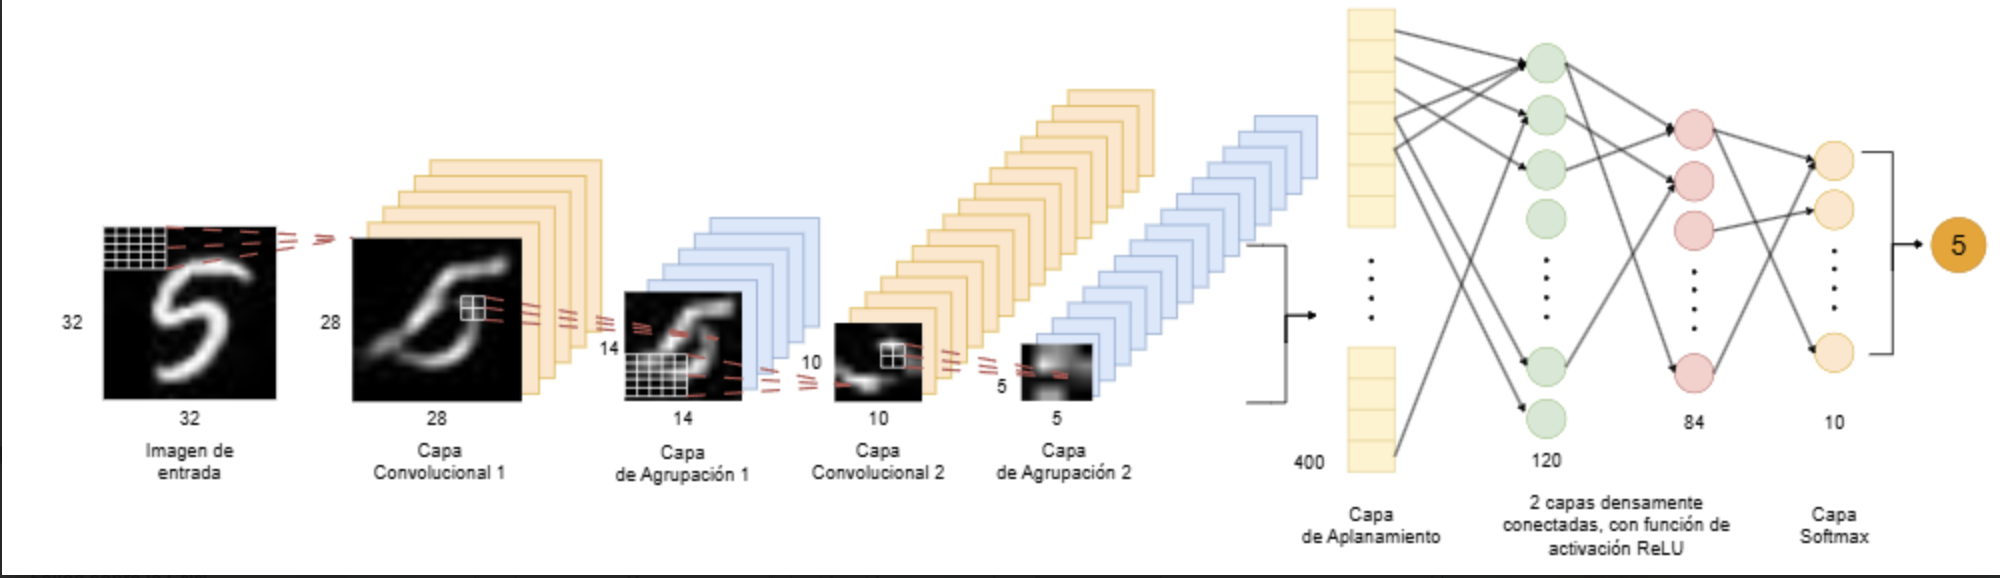
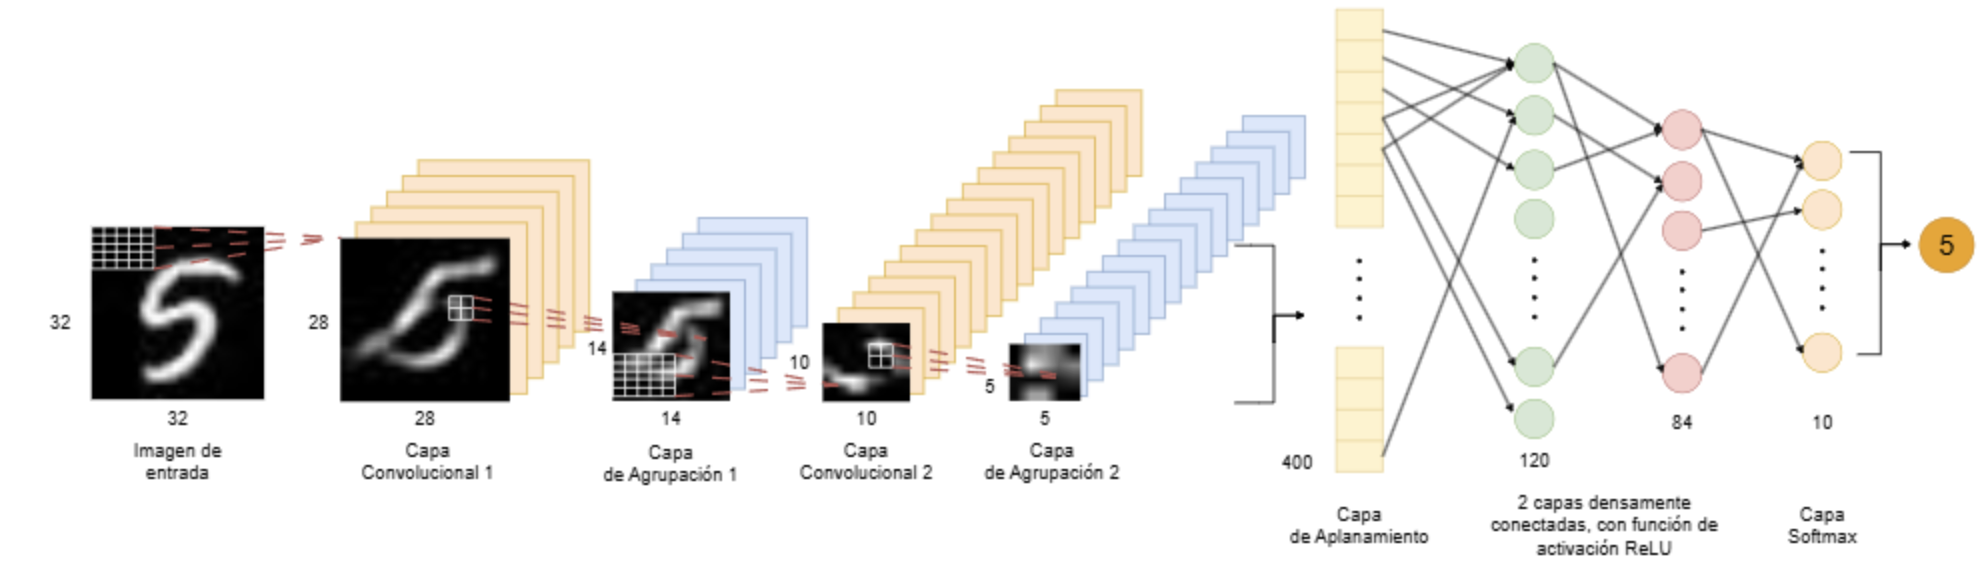
add image LeNet-5 to fault-injector and VHDL-tools

diff --git a/src/pages/VHDLTools.css b/src/pages/VHDLTools.css
@@ -15,6 +15,90 @@
   padding: 2rem 0;
 }
 
+.header-content {
+  display: flex;
+  align-items: center;
+  justify-content: space-between;
+  gap: 3rem;
+  max-width: 1200px;
+  margin: 0 auto;
+}
+
+.header-text {
+  flex: 1;
+  text-align: left;
+}
+
+.header-image {
+  flex: 0 0 auto;
+  display: flex;
+  flex-direction: column;
+  align-items: center;
+  gap: 0.5rem;
+}
+
+.lenet-architecture-image {
+  max-width: 400px;
+  height: auto;
+  border-radius: 12px;
+  box-shadow: 0 8px 32px rgba(0, 0, 0, 0.15);
+  background: white;
+  padding: 1rem;
+  border: 2px solid rgba(255, 255, 255, 0.3);
+}
+
+.image-caption {
+  font-size: 0.9rem;
+  color: white;
+  font-weight: 500;
+  margin: 0;
+  text-shadow: 0 1px 2px rgba(0, 0, 0, 0.3);
+}
+
+.architecture-info {
+  margin-top: 1.5rem;
+  padding: 1rem;
+  background: rgba(255, 255, 255, 0.15);
+  border-radius: 12px;
+  border: 1px solid rgba(255, 255, 255, 0.2);
+}
+
+.architecture-badge {
+  display: inline-block;
+  background: linear-gradient(135deg, #48bb78, #38a169);
+  color: white;
+  padding: 0.5rem 1rem;
+  border-radius: 20px;
+  font-size: 0.9rem;
+  font-weight: 600;
+  margin-bottom: 0.5rem;
+}
+
+.architecture-description {
+  font-size: 1rem;
+  color: white;
+  margin: 0.5rem 0 0 0;
+  line-height: 1.5;
+  text-shadow: 0 1px 2px rgba(0, 0, 0, 0.3);
+}
+
+/* Responsive design for header */
+@media (max-width: 768px) {
+  .header-content {
+    flex-direction: column;
+    text-align: center;
+    gap: 2rem;
+  }
+  
+  .header-text {
+    text-align: center;
+  }
+  
+  .lenet-architecture-image {
+    max-width: 300px;
+  }
+}
+
 .page-title {
   display: flex;
   align-items: center;

diff --git a/src/pages/VHDLTools.jsx b/src/pages/VHDLTools.jsx
@@ -21,13 +21,31 @@ const VHDLTools = () => {
       
       <div className="vhdl-tools-container">
         <div className="page-header">
-          <h1 className="page-title">
-            <span className="title-icon">🔧</span>
-            VHDL Tools
-          </h1>
-          <p className="page-subtitle">
-            Conjunto de herramientas para la conversión y extracción de datos de redes neuronales a formato VHDL
-          </p>
+          <div className="header-content">
+            <div className="header-text">
+              <h1 className="page-title">
+                <span className="title-icon">🔧</span>
+                VHDL Tools
+              </h1>
+              <p className="page-subtitle">
+                Conjunto de herramientas para la conversión y extracción de datos de redes neuronales a formato VHDL
+              </p>
+              <div className="architecture-info">
+                <span className="architecture-badge">🎯 Optimizado para LeNet-5</span>
+                <p className="architecture-description">
+                  Estas herramientas están específicamente diseñadas para trabajar con la arquitectura LeNet-5
+                </p>
+              </div>
+            </div>
+            <div className="header-image">
+              <img 
+                src="/LeNet-5.png" 
+                alt="Arquitectura LeNet-5" 
+                className="lenet-architecture-image"
+              />
+              <p className="image-caption">Arquitectura LeNet-5</p>
+            </div>
+          </div>
         </div>
         
         <div className="tools-content">

diff --git a/src/pages/FaultInjector.jsx b/src/pages/FaultInjector.jsx
@@ -444,13 +444,31 @@ const FaultInjector = () => {
       
       <div className="fault-injector-container">
         <div className="page-header">
-          <h1 className="page-title">
-            <span className="title-icon">⚡</span>
-            Fault Injector
-          </h1>
-          <p className="page-subtitle">
-            Herramienta para inyección de fallos en redes neuronales convolucionales
-          </p>
+          <div className="header-content">
+            <div className="header-text">
+              <h1 className="page-title">
+                <span className="title-icon">⚡</span>
+                Fault Injector
+              </h1>
+              <p className="page-subtitle">
+                Herramienta para inyección de fallos en redes neuronales convolucionales
+              </p>
+              <div className="architecture-info">
+                <span className="architecture-badge">🎯 Optimizado para LeNet-5</span>
+                <p className="architecture-description">
+                  Esta herramienta está específicamente diseñada y optimizada para trabajar con la arquitectura LeNet-5
+                </p>
+              </div>
+            </div>
+            <div className="header-image">
+              <img 
+                src="/LeNet-5.png" 
+                alt="Arquitectura LeNet-5" 
+                className="lenet-architecture-image"
+              />
+              <p className="image-caption">Arquitectura LeNet-5</p>
+            </div>
+          </div>
         </div>
         
         <div className="fault-injector-content">

diff --git a/src/pages/FaultInjector.css b/src/pages/FaultInjector.css
@@ -15,6 +15,88 @@
   padding: 2rem 0;
 }
 
+.header-content {
+  display: flex;
+  align-items: center;
+  justify-content: space-between;
+  gap: 3rem;
+  max-width: 1200px;
+  margin: 0 auto;
+}
+
+.header-text {
+  flex: 1;
+  text-align: left;
+}
+
+.header-image {
+  flex: 0 0 auto;
+  display: flex;
+  flex-direction: column;
+  align-items: center;
+  gap: 0.5rem;
+}
+
+.lenet-architecture-image {
+  max-width: 400px;
+  height: auto;
+  border-radius: 12px;
+  box-shadow: 0 8px 32px rgba(0, 0, 0, 0.15);
+  background: white;
+  padding: 1rem;
+  border: 2px solid rgba(255, 255, 255, 0.3);
+}
+
+.image-caption {
+  font-size: 0.9rem;
+  color: #4a5568;
+  font-weight: 500;
+  margin: 0;
+}
+
+.architecture-info {
+  margin-top: 1.5rem;
+  padding: 1rem;
+  background: rgba(255, 255, 255, 0.15);
+  border-radius: 12px;
+  border: 1px solid rgba(255, 255, 255, 0.2);
+}
+
+.architecture-badge {
+  display: inline-block;
+  background: linear-gradient(135deg, #48bb78, #38a169);
+  color: white;
+  padding: 0.5rem 1rem;
+  border-radius: 20px;
+  font-size: 0.9rem;
+  font-weight: 600;
+  margin-bottom: 0.5rem;
+}
+
+.architecture-description {
+  font-size: 1rem;
+  color: #2d3748;
+  margin: 0.5rem 0 0 0;
+  line-height: 1.5;
+}
+
+/* Responsive design for header */
+@media (max-width: 768px) {
+  .header-content {
+    flex-direction: column;
+    text-align: center;
+    gap: 2rem;
+  }
+  
+  .header-text {
+    text-align: center;
+  }
+  
+  .lenet-architecture-image {
+    max-width: 300px;
+  }
+}
+
 .page-title {
   display: flex;
   align-items: center;
